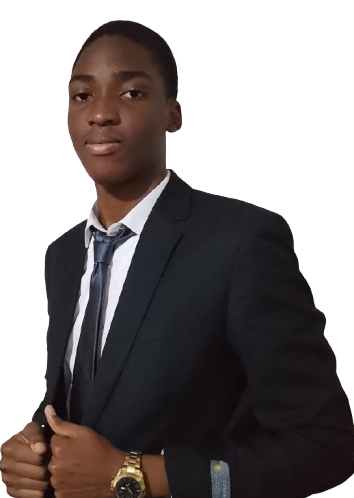
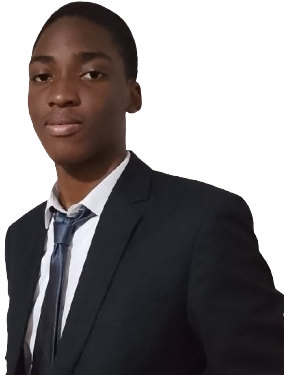
My portfolio website

diff --git a/portfolio.html b/portfolio.html
@@ -33,7 +33,7 @@
     <div class="container">
         <div class="row">
             <div class="about-col-1">
-                <img src="images/Background.png">
+                <img src="images/informal pic.png">
             </div>
             
             <div class="about-col-2">
@@ -90,7 +90,7 @@
                     <a href="#">learn more</a>
             </div>
             <div>
-                <i class="fa-solid fa-code-compare"></i>
+                <i class="fa-solid fa-crop-simple"></i>
                 <h2> UI/UX Design</h2>
                 <p>Lorem ipsum dolor sit amet consectetur adipisicing elit.
                     Ipsam, facilis officiis nulla, id aut, laborum et animi natus 
@@ -98,7 +98,7 @@
                     <a href="#">learn more</a>
             </div>
             <div>
-                <i class="fa-solid fa-crop-simple"></i>
+                <i class="fa-brands fa-android"></i>
                 <h2> App Development and design</h2>
                 <p>Lorem ipsum dolor sit amet consectetur adipisicing elit.
                     Ipsam, facilis officiis nulla, id aut, laborum et animi natus 
@@ -108,6 +108,45 @@
         </div>
     </div>
  </div>
+
+<!-- Portfolio -->
+<div id="Portfolio">
+    <div class="container">
+        <h1 class="sub-title">My Work</h1>
+        <div class="work-list">
+            <div class="work">
+                <img src="images/Work_1.jpg">
+                <div class="layer">
+                    <h3>Fitness App</h3>
+                    <p>Lorem ipsum dolor sit amet consectetur adipisicing elit.
+                         Harum, iure impedit, tenetur adipisci architecto quae 
+                         quidem quia illum asperiores quasi in vel. Dicta, optio.</p>
+                         <a href="#"><i class="fa-solid fa-arrow-up-right-from-square"></i></a>
+                    </div>
+                 </div>
+            <div class="work">
+                <img src="images/Work_2.jpg">
+                <div class="layer">
+                    <h3>Train Booking App</h3>
+                    <p>Lorem ipsum dolor sit amet consectetur adipisicing elit.
+                         Harum, iure impedit, tenetur adipisci architecto quae 
+                         quidem quia illum asperiores quasi in vel. Dicta, optio.</p>
+                    <a href="#"><i class="fa-solid fa-arrow-up-right-from-square"></i></a>
+                </div>
+        </div>
+            <div class="work">
+                <img src="images/Work_3.jpg">
+                <div class="layer">
+                    <h3>Birthday website</h3>
+                    <p>Lorem ipsum dolor sit amet consectetur adipisicing elit.
+                         Harum, iure impedit, tenetur adipisci architecto quae 
+                         quidem quia illum asperiores quasi in vel. Dicta, optio.</p>
+                    <a href="#"><i class="fa-solid fa-arrow-up-right-from-square"></i></a>
+            </div>
+    </div>
+</div>
+
+
 <script>
     var tablinks = document.getElementsByClassName("tab-links");
     var tabcontents = document.getElementsByClassName("tab-contents");

diff --git a/styles.css b/styles.css
@@ -12,10 +12,14 @@ body{
 #header{
     width: 100%;
     height: 100vh;
-    background: url(images/Background.jpg);
-    background-size: cover;
-    background-position: center;
+    background-image: url(images/Background.png);
+    background-size: 32%;
+    background-repeat: no-repeat;
+    background-position-x: right;
+    background-position-y: bottom;
+    
 }
+    
 .container{
     padding: 5px 5%;
 }
@@ -25,18 +29,17 @@ nav{
     align-items: center;
     justify-content: space-between;
     flex-wrap: wrap;
-
 }
 
 .logo{
-    width: 135px;
-    height: 120px;
+    width: 115px;
+    height: 100px;
 }
 
 nav ul li{
     display: inline-block;
     list-style: none;
-    margin: 10px 20px;
+    margin: 10px 15px 40px;
 
 }
 
@@ -63,7 +66,7 @@ nav ul li a:hover::after{
 }
 
 .header-text{
-    margin-top: 20%;
+    margin-top: 15%;
     font-size: 30px;
 }
 
@@ -150,4 +153,93 @@ nav ul li a:hover::after{
     grid-template-columns: repeat(auto-fit, minmax(250px, 1fr));
     grid-gap: 40px;
     margin-top: 50px;
+}
+.services-list div{
+    background: #262626;
+    padding: 40px;
+    font-size: 15px;
+    font-weight: 300;
+    border-radius: 5px;
+    transition: Background 0.5s, transform 0.5s;
+}
+.services-list div i{
+font-size: 50px;
+margin-bottom: 30px;
+}     
+.services-list div h2{
+    font-size: 30px;
+    font-weight: 500;
+    margin-bottom: 15px;
+}
+.services-list div a{
+    text-decoration: none;
+    color: #fff;
+    font-size: 12px;
+    margin-top: 20px;
+    display: inline-block;
+}
+.services-list div:hover{
+    background: #5707ec;
+    transform: translateY(-10px);
+}
+/* portfolio */
+#portfolio{
+    padding: 50px 0;
+}
+.work-list{
+    display: grid;
+    grid-template-columns: repeat(auto-fit, minmax(250px, 1fr));
+    grid-gap: 40px;
+    margin-top: 50px;
+}
+.work{
+    border-radius: 10px;
+    position: relative;
+    overflow: hidden;
+}
+
+.work img{
+    width: 100%;
+    border-radius: 10px;
+    display: block;
+    transition: transform 0.5s;
+}
+.layer{
+    width: 100%;
+    height: 100%;
+    background: linear-gradient(rgba(0,0,0,0.6), #5707ec93);
+    border-radius: 10px;
+    position: absolute;
+    left: 0;
+    bottom: 94px;
+    overflow: hidden;
+    display: flex;
+    align-items: center;
+    justify-content: center;
+    flex-direction: column;
+    padding: 0 20px;
+    text-align: center;
+    font-size: 14px;
+}
+.layer h3{
+    font-weight: 400px;
+    font-size: 30px;
+}
+.layer a{
+    margin-top: 20px;
+    color: #5707ec;
+    text-decoration: none;
+    font-size: 18px;
+    line-height: 60px;
+    background: #fff;
+    width: 60px;
+    height: 60px;
+    border-radius: 50%;
+    text-align: center;
+}
+.work:hover img{
+    transform: scale(1.1);
+}
+.work:hover .layer{
+    height: 100%;
 }
